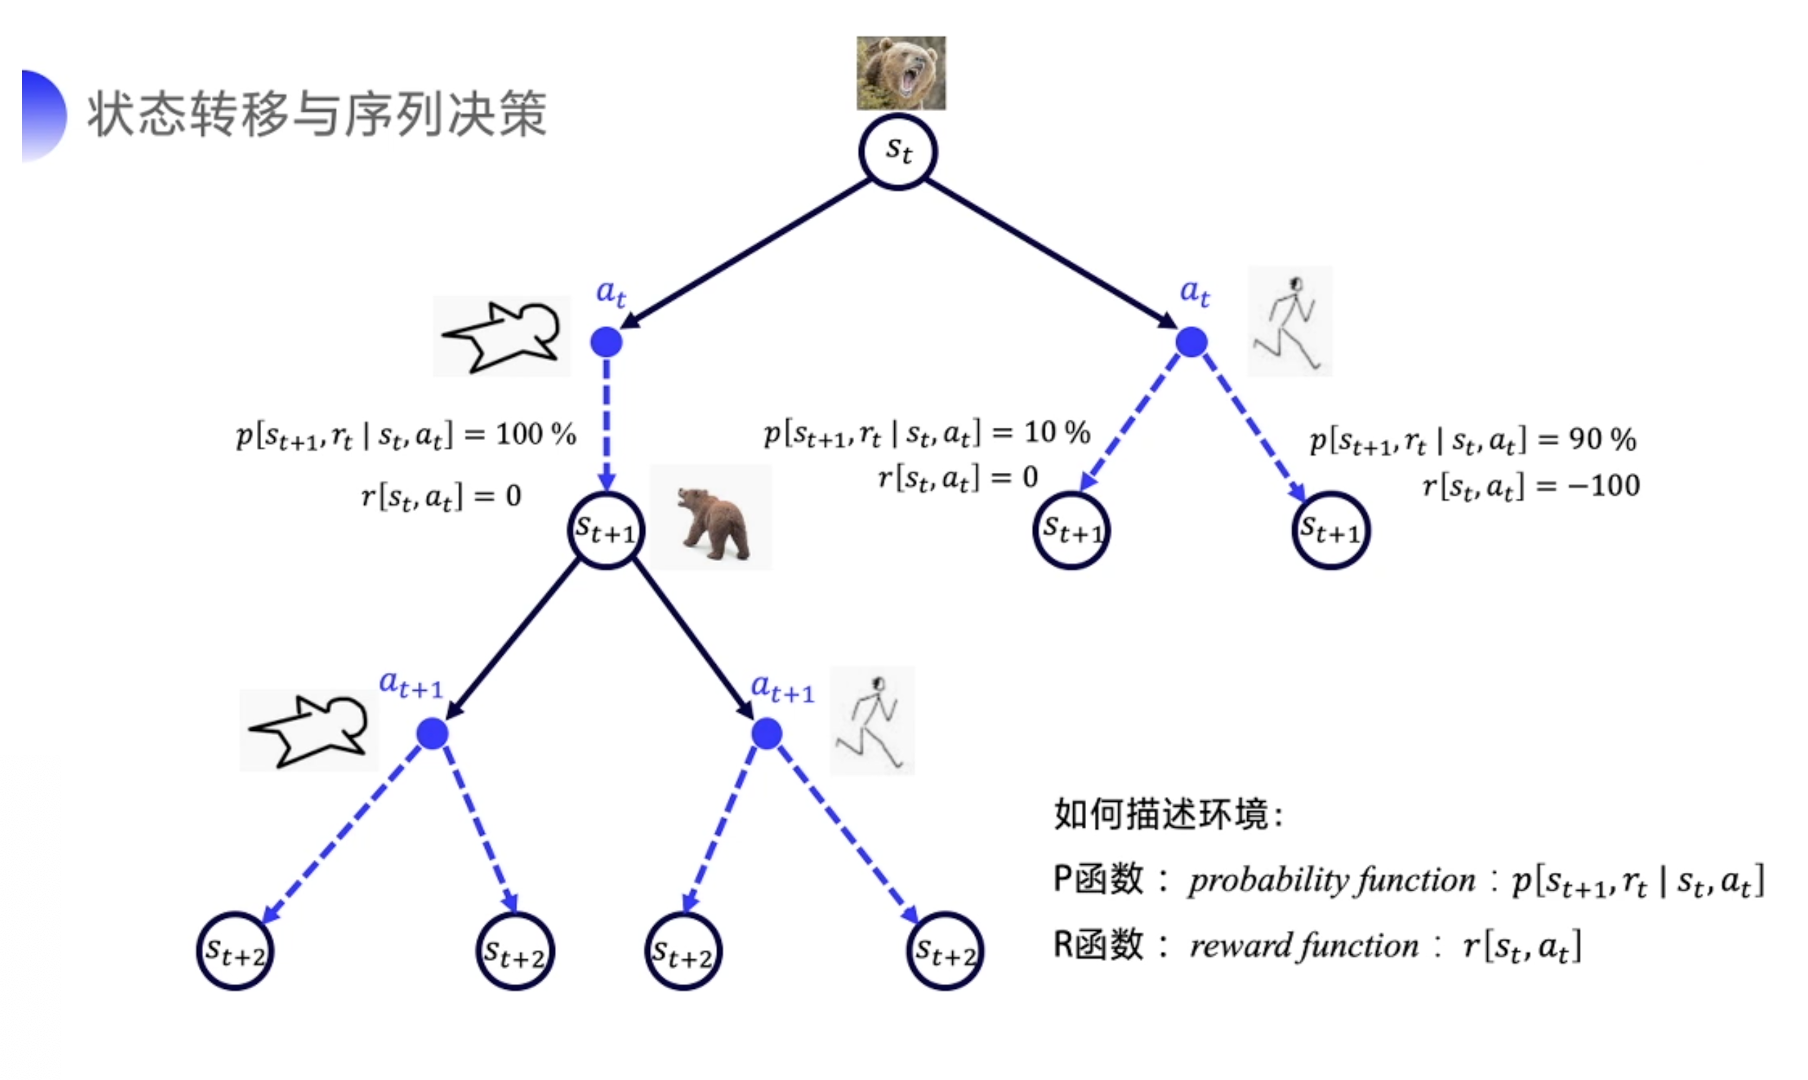
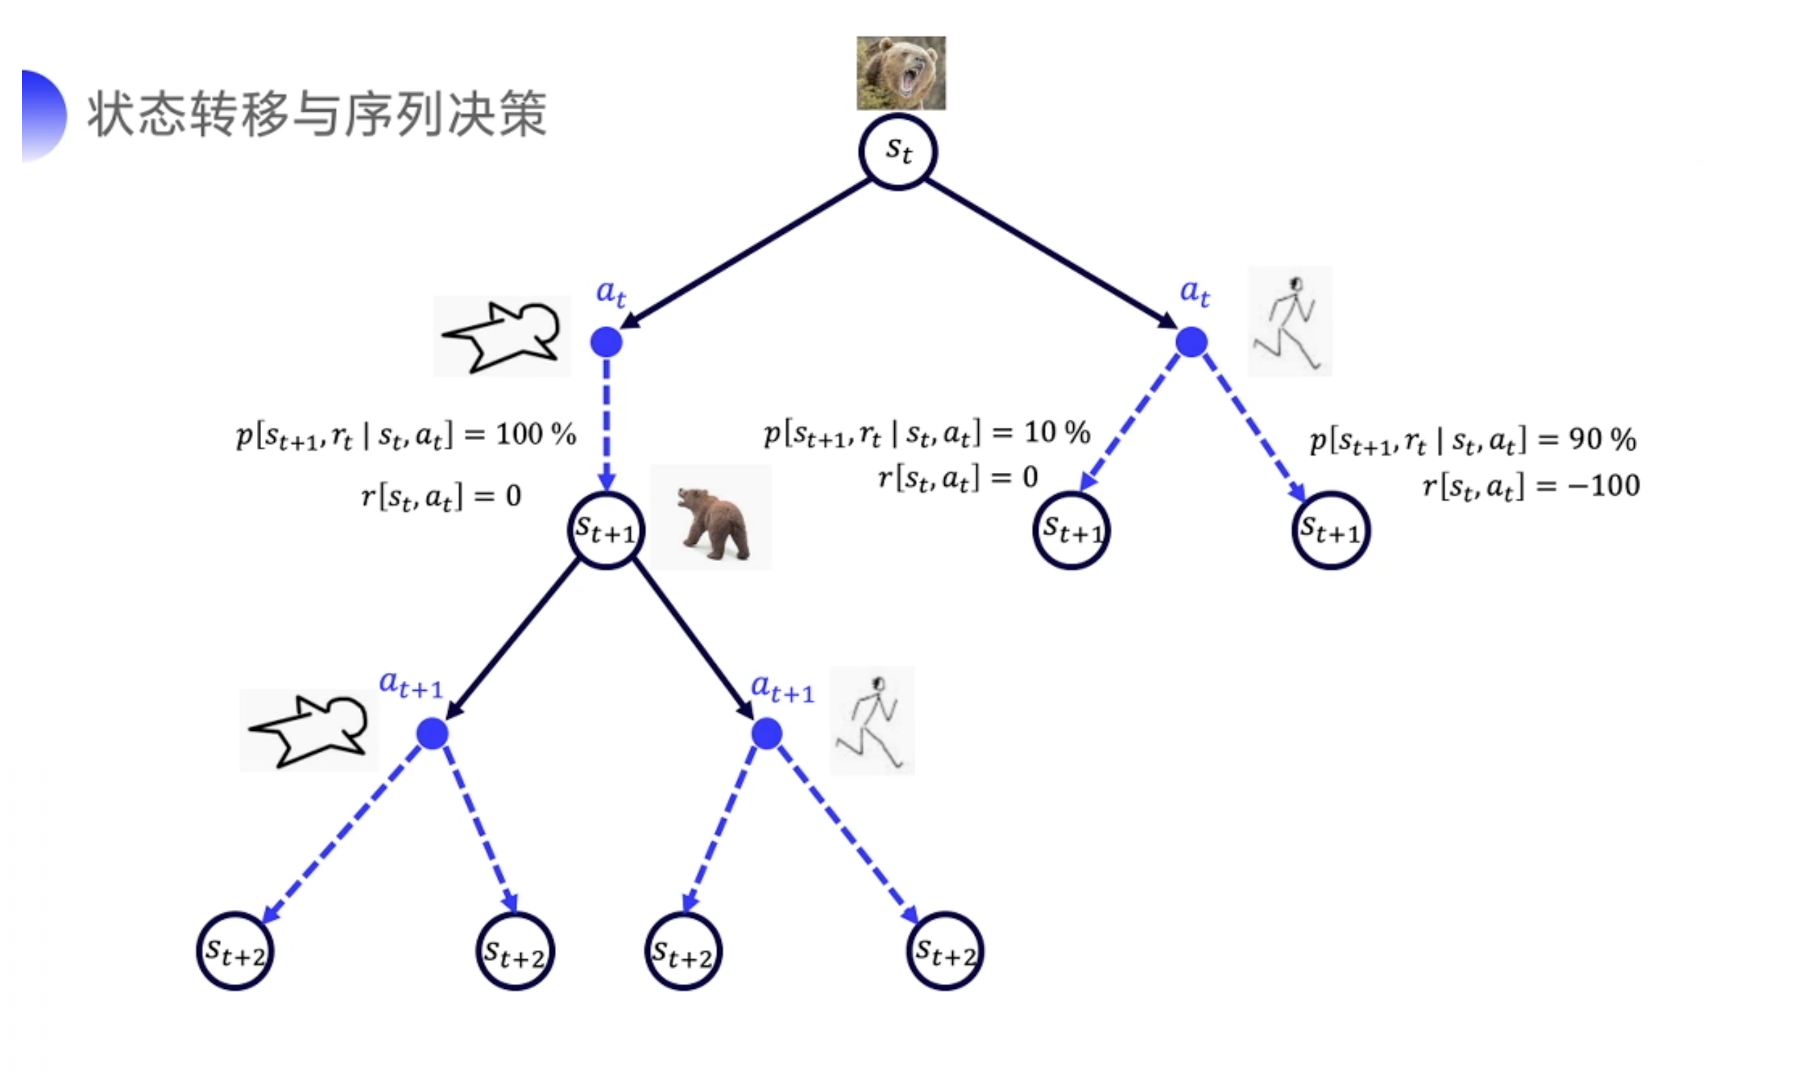
fix ch3

Changed region(s): [[0.5575, 0.7333, 0.9912, 0.825], [0.5575, 0.8556, 0.8673, 0.8861]]

diff --git a/docs/chapter3/chapter3.md b/docs/chapter3/chapter3.md
@@ -26,9 +26,9 @@ MDP 就是序列决策这样一个经典的表达方式。MDP 也是强化学习
 
 如上图所示，我们把这些可能的动作和可能的状态转移的关系画成一个树状图。它们之间的关系就是从 $s_t$ 到 $a_t$ ，再到 $s_{t+1}$ ，再到 $a_{t+1}$，再到 $s_{t+2}$ 这样子的一个过程。
 
-我们去跟环境交互，只能走完整的一条通路。这里面产生了一系列的一个决策的过程，就是我们跟环境交互产生了一个经验。**我们会使用 `P 函数(probability function)`和 `R 函数(reward function)`来去描述环境。**P 函数就是状态转移的概率，P 函数实际上反映的是环境的一个随机性。
+我们去跟环境交互，只能走完整的一条通路。这里面产生了一系列的一个决策的过程，就是我们跟环境交互产生了一个经验。**我们会使用 `概率函数(probability function)`和 `奖励函数(reward function)`来去描述环境。**概率函数就是状态转移的概率，概率函数实际上反映的是环境的一个随机性。
 
-**当我们知道 P 函数和  R 函数时，我们就说这个 MDP 是已知的，可以通过 policy iteration 和 value iteration 来找最佳的策略。**
+当我们知道概率函数和奖励函数时，我们就说这个 MDP 是已知的，可以通过 policy iteration 和 value iteration 来找最佳的策略。
 
 比如，在熊发怒的情况下，我如果选择装死，假设熊看到人装死就一定会走的话，我们就称在这里面的状态转移概率就是 100%。但如果说在熊发怒的情况下，我选择跑路而导致可能跑成功以及跑失败，出现这两种情况。那我们就可以用概率去表达一下说转移到其中一种情况的概率大概 10%，另外一种情况的概率大概是 90% 会跑失败。
 
@@ -39,7 +39,7 @@ MDP 就是序列决策这样一个经典的表达方式。MDP 也是强化学习
 ![](img/3.3.png)
 因为现实世界中人类第一次遇到熊之前，我们根本不知道能不能跑得过熊，所以刚刚那个 10%、90% 的概率也就是虚构出来的概率。熊到底在什么时候会往什么方向去转变的话，我们经常是不知道的。
 
-**我们是处在一个未知的环境里的，也就是这一系列的决策的 P 函数和 R 函数是未知的，这就是 model-based 跟 model-free 的一个最大的区别。**
+**我们是处在一个未知的环境里的，也就是这一系列的决策的概率函数和奖励函数是未知的，这就是 model-based 跟 model-free 的一个最大的区别。**
 
 强化学习就是可以用来解决用完全未知的和随机的环境。强化学习要像人类一样去学习，人类学习的话就是一条路一条路地去尝试一下，先走一条路，看看结果到底是什么。多试几次，只要能活命的。我们可以慢慢地了解哪个状态会更好，
 
